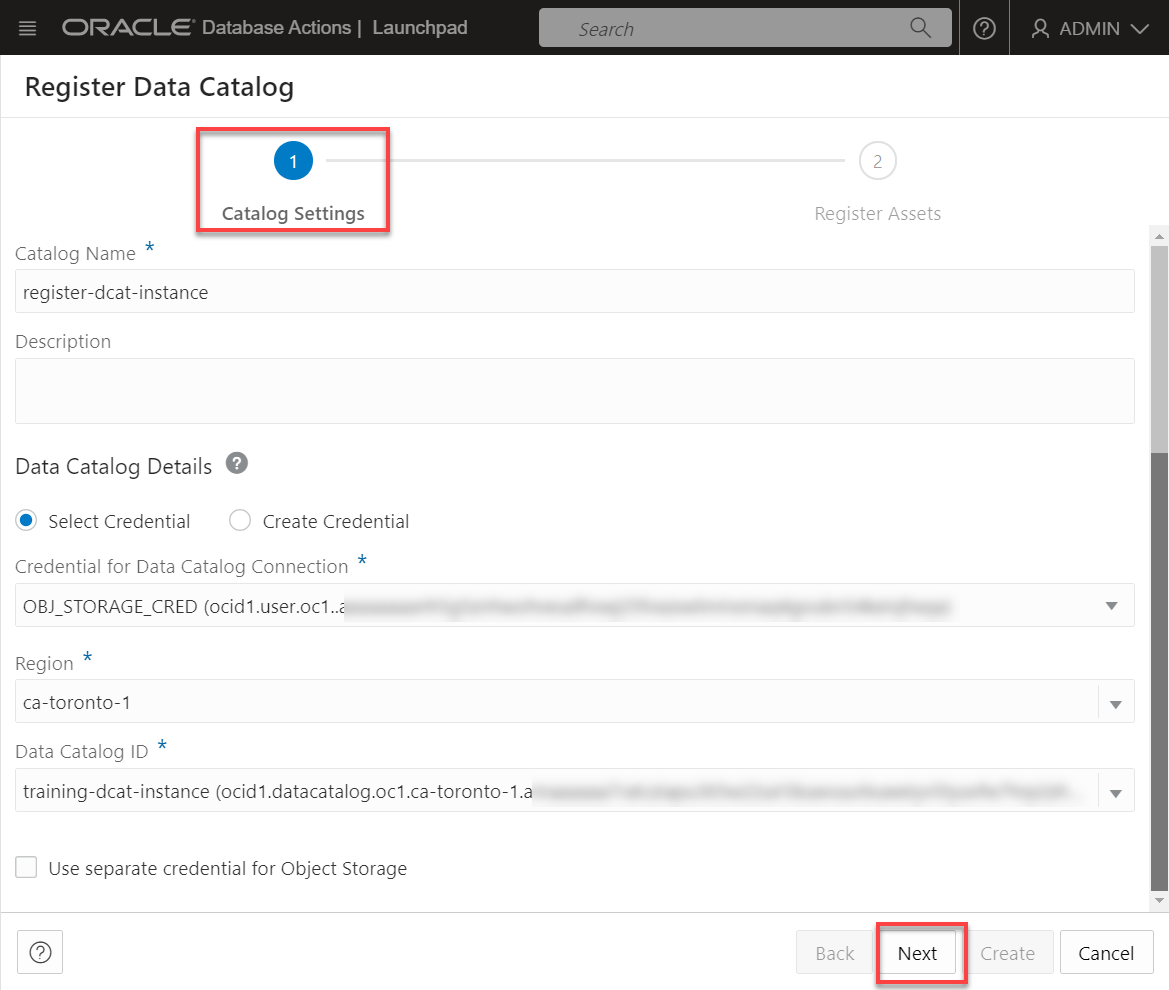
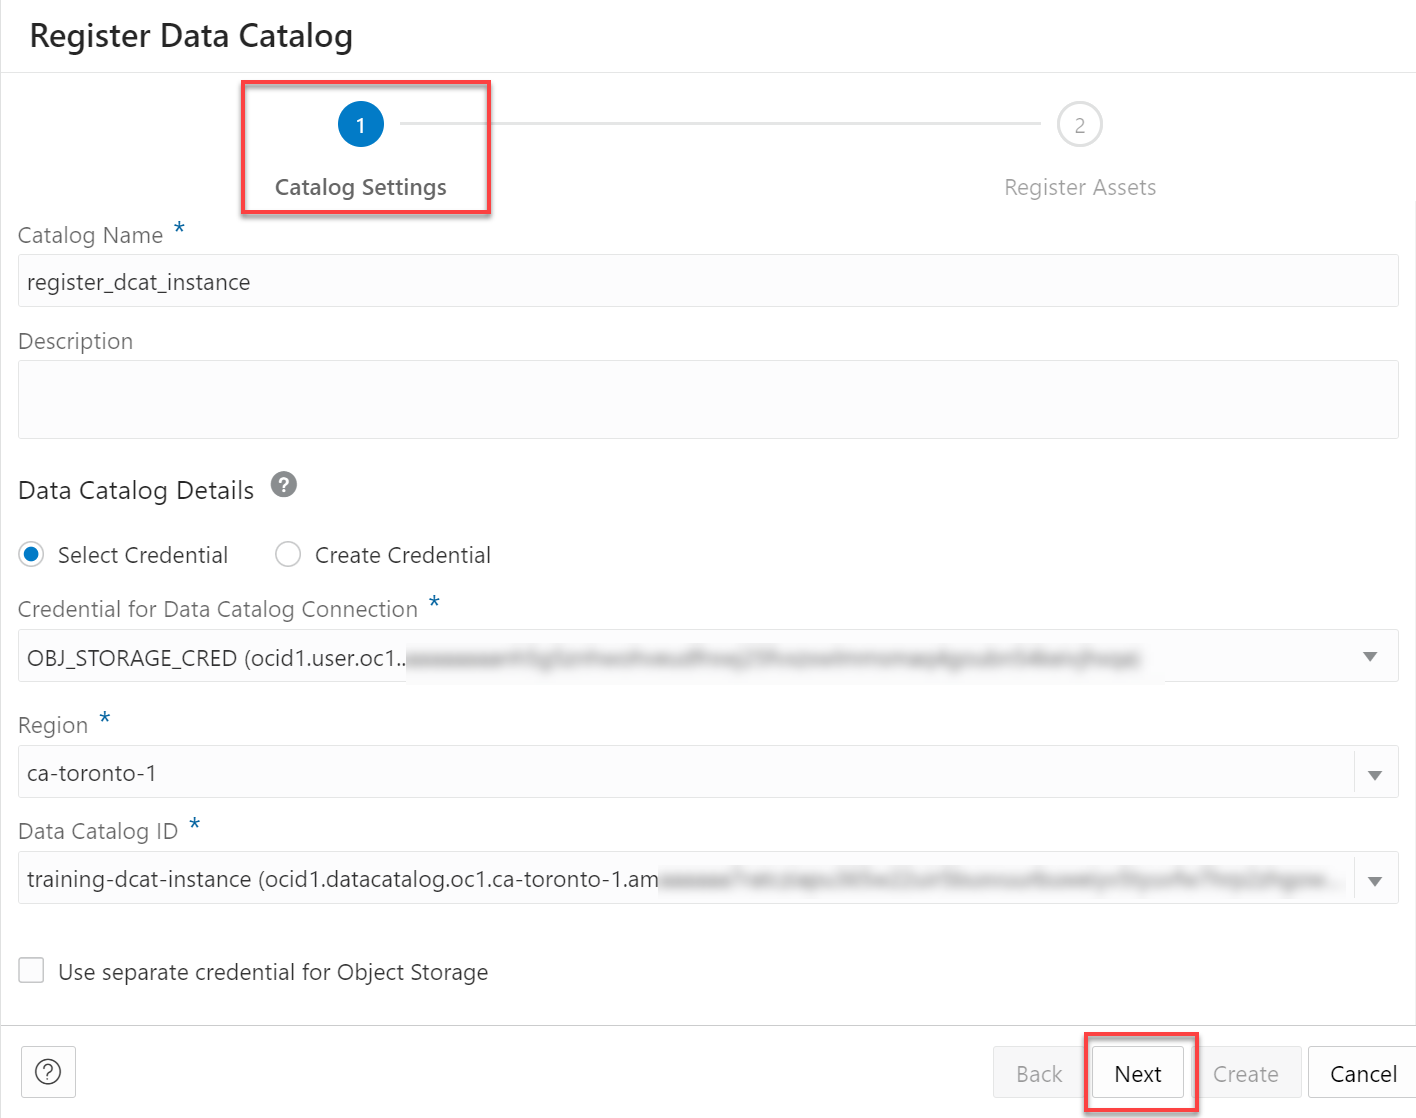
updates to new labs

diff --git a/shared/adw-data-lake/build-data-lake/adw-dcat-integrate/adw-dcat-integrate.md b/shared/adw-data-lake/build-data-lake/adw-dcat-integrate/adw-dcat-integrate.md
@@ -16,26 +16,62 @@ In this lab, you will:
 
 This lab requires the completion of the following labs/tasks from the **Contents** menu on the left:
 
-* **Lab 1**: Set up the Workshop Environment > Task 3: Create an Autonomous Data Warehouse Instance.
-* **Lab 1**: Set up the Workshop Environment > Task 4: (Optional) Create a Data Catalog Instance. If you don't have a Data Catalog instance installed, you can simply follow the instructions in this lab.
-* **Lab 4**: Link to Data in Public Object Storage Buckets > Task 2: Link to Data in Public Object Storage Buckets and Create Tables.
+* **Lab 1**: Set up the Workshop Environment > **Task 3**: Create an Autonomous Data Warehouse Instance and **Task 4**: (Optional) Create a Data Catalog Instance. If you don't have a Data Catalog instance installed, you can simply follow the instructions in this lab.
+* **Lab 4**: Link to Data in Public Object Storage Buckets > **Task 2**: Link to Data in Public Object Storage Buckets and Create Tables.
 
-## Task 1: Navigate to the Data Catalog Page
+## Task 1: Navigate to the OCI Data Catalog Page
+
+This is not a hands-on task. In this task, you will navigate to an OCI Data Catalog instance and explore a data asset named Data Lake. This data asset contains entities that were harvested from three Oracle Object Storage buckets. In the next task, you will connect to this Data Catalog instance from within ADW and link to some data assets to create external tables.
 
 1. Log in to the **Oracle Cloud Console**. On the **Sign In** page, select your tenancy, enter your username and password, and then click **Sign In**. The **Oracle Cloud Console** Home page is displayed.
 
+2. Open the **Navigation** menu and click **Analytics & AI**. Under **Data Lake**, click **Data Catalog**.
 
-## Task 2: Navigate to the Data Load Page
+3. On the **Data Catalog Overview** page, click **Go to Data Catalogs**.
 
-1. Log in to the **Oracle Cloud Console**, if you are not already logged as the Cloud Administrator. On the **Sign In** page, select your tenancy, enter your username and password, and then click **Sign In**. The **Oracle Cloud Console** Home page is displayed.
+    ![The Go to Data Catalogs button is highlighted.](./images/data-catalog-overview.png " ")
+
+4. On the **Data Catalogs** page, click the **`training-dcat-instance`** Data Catalog instance. In our example, this instance contains a data asset.
+
+    ![In the Name column, the training-dcat-instance link is highlighted.](./images/click-data-catalog.png " ")
+
+    **Note:** In our example, the Data Catalog instance is in a different compartment than where our ADW instance is located; therefore, make sure you are in the correct compartment when you access your Data Catalog and ADW instances; otherwise, you won't see the resources that you created in this workshop.
+
+5. On the Data Catalog instance **Home** tab, click **Data assets** link.
+
+    ![The Data Assets tab and Data Lake data asset are highlighted.](./images/data-assets-link.png " ")
+
+6. In the **Data assets** tab, click your desired data asset, **Data Lake** in our example.
+
+    ![The Data Assets tab and Data Lake data asset are highlighted.](./images/data-assets-tab.png " ")
+
+7. In the **Data assets** list, click the **Data Lake** data asset. The **Oracle Object Storage: Data Lake** page is displayed. Three buckets were harvested in this data asset.
+
+    ![The three buckets in the Data Lake asset are displayed.](./images/buckets-displayed.png " ")
+
+8. Click the **Sandbox** bucket link. The **Bucket: Sandbox** page is displayed. Let's view the data entities in this bucket. Click the **Data entities** tab. The bucket contains three data entities.
+
+    ![The data entities in the bucket are displayed.](./images/data-entities-sandbox.png " ")
+
+    In the this workshop, you will learn how to access those data entities from within ADW.
+
+## Task 2: Register your Data Catalog Instance in ADW
+
+In this task, you will learn how to register an OCI Data Catalog instance in ADW in order connect to that instance and link to the data asset's entities to create external tables in ADW.
+
+1. Log in to the **Oracle Cloud Console**, if you are not already logged as the Cloud Administrator.
 
 2. Open the **Navigation** menu and click **Oracle Database**. Under **Oracle Database**, click **Autonomous Database**.
 
-3. On the **Autonomous Databases** page, click your **ADW-Data-Lake** ADB instance.
+3. On the **Autonomous Databases** page, make sure that you are in the correct compartment, and then click your **ADW-Data-Lake** ADB instance.
+
+    **Note:** If your Data Catalog and ADW instances are in different compartments like in our example, you must select the correct compartment for your ADW instance; otherwise, you won't see the resources that you created in this workshop such as the credential and cloud store locations.
+
+    ![Verify compartment and then click the ADW instance.](./images/select-compartment.png " ")
 
 4. On the **Autonomous Database details** page, click **Database actions**.
 
-5. A **Launch DB actions** message box with the message **Please wait. Initializing DB Actions** is displayed. Next, the **Database Actions | Launchpad** Home page is displayed in a new tab in your browser. In the **Data Studio** section, click the **DATA LOAD** card.
+5. In the **Database Actions | Launchpad** Home page, in the **Data Studio** section, click the **DATA LOAD** card.
 
 6. In the **Administration** section, click **CLOUD LOCATIONS**, and then click **Next**.
 
@@ -45,61 +81,79 @@ This lab requires the completion of the following labs/tasks from the **Contents
 
     ![Click Register Data Catalog.](./images/click-register-data-catalog.png " ")
 
-8. In the **Register Data Catalog** panel, specify the following:
+8. In the **Register Data Catalog** panel, in **Step 1** of the wizard, **Catalog Settings**, specify the following:
 
-    * **Catalog Name:** Enter a meaningful name.
+    * **Catalog Name:** Enter a meaningful name. **Note:** The name must conform to the Oracle object naming conventions, which do not allow spaces or **hyphens**.
     * **Description:** Enter an optional description.
-    * **Select Credential:** Select this check box (default). Select your credential that you created in **Lab 5 > Task 6**.
-    * **Region:** Your region should be already selected.
+    * **Select Credential:** Select this check box (default). Select your credential that you created in **Lab 5 > Task 6**, **`OBJ_STORAGE_CRED`**.
+    * **Region:** Your region should be already selected after you chose your credential.
     * **Data Catalog ID:** If you have several Data Catalog instances, select the Data Catalog instance that you want to register from the drop-down list.
 
-    ![The completed Register Data Catalog panel is displayed.](./images/register-data-catalog-panel.png " ")
+        ![The completed Register Data Catalog panel is displayed.](./images/register-data-catalog-panel.png " ")
 
-## Task 2: Export a Table as a Parquet File to an Object Storage Bucket
+9. Click **Next**. **Step 2** of the wizard, **Register Assets** is displayed. By default, all the buckets in your selected Data Catalog instance are selected, along with data assets they contain. Drill-down (expand) the **moviestream_sandbox** bucket. This bucket contains three data assets. Those are the same data entities that you saw earlier in the Data Catalog instance in **Task 1**.
 
-1. Export the **`PIZZA_LOCATIONS`** table from your ADW instance to a **`Parquet`** file in a private (or public) Object Storage bucket of your choice. Provide the location of your OCI Object Storage bucket using the Native URI format as follows. _**Note:** You need to use your own **`region`** name, **`tenancy (namespace)`** name, **`bucket`** name, and the **`filename`** that will be created_.
+    ![Step 2 of the wizard is displayed.](./images/register-assets-wizard-2.png " ")
 
-    ```
-    https://objectstorage.region.oraclecloud.com/n/namespace-string/b/bucket/o/filename
-    ```
+10. Keep the **moviestream\_sandbox** bucket checked; however, uncheck the **moviestream\_landing** and **moviestream\_gold** buckets, and then click **Create** to register the Data Catalog instance.
 
-2. Copy and paste the following code into your SQL Worksheet. The **`credential_name`** is the name of the credential to access your Cloud Object Storage bucket where the file will be exported. You created this credential in **Lab 5 > Task 6**. Replace the **`file_uri_list`** value with your own value. The **`format`** parameter values indicates that the results of the query you specify in the **`query`** parameter will be exported as a `Parquet` file to your bucket. Don't provide the **`.parquet`** extension for the file in the **URI**. It will be automatically appended to the file name when it gets created. Next, click the **Run Script** icon in the Worksheet toolbar.
+    ![Click Create to register the Data Catalog instance.](./images/click-create.png " ")
 
-    ```
-    <copy>
-    BEGIN
-    DBMS_CLOUD.EXPORT_DATA(
-        credential_name => 'OBJ_STORAGE_CRED',
-        file_uri_list => 'https://objectstorage.ca-toronto-1.oraclecloud.com/n/use-your-namespace/b/training-data-lake/o/pizza_locations',
-        format => json_object('type' value 'parquet'),
-        query => 'select * from PIZZA_LOCATION'
-    );
-    END;
-    /
-    </copy>
-    ```
+    The **Manage Cloud Store** page is re-displayed. The newly registered Data Catalog instance is displayed.
 
-    It can take up to a minute or so for the PL/SQL procedure to complete successfully.
+    ![Click Create to register the Data Catalog instance.](./images/data-catalog-registered.png " ")
 
-    ![List the files in the sales_sample folder.](./images/export-table.png " ")
+## Task 3: Link to Data Assets in the Registered Data Catalog and Create External Tables
 
-    > **Note:**
+In this task, you will link to data assets from the registered Data Catalog and create the following external tables in your Autonomous Database instance: **customer\_contact**, **genre**, **pizza\_locations**, and **sales\_sample**.
 
-    * If your target Object Storage bucket is **private** like in our example, then you must use **`credential_name => OBJ_STORAGE_CRED`** argument. If you use a **public** Object Storage bucket, the argument is optional.
+1. Click **Oracle Database Actions** in the banner to display the Launchpad landing page.
 
-## Task 3: View the Exported Parquet File in the Object Storage Bucket
+    ![Click Oracle Database Actions.](images/click-database-actions.png)
 
-**`DBMS_CLOUD.EXPORT_DATA`** performs the query specified with the `query` parameter and sends the results to text files on Object Store. The output format depends on the `format` parameter type you specify CSV, JSON, Parquet, or XML. In our example, we used Parquet. For detailed information about the generated file format and name, see  [File Naming for Text Output (CSV, JSON, Parquet, or XML)](https://docs.oracle.com/en/cloud/paas/autonomous-database/adbsa/export-data-file-namingl.html#GUID-1A52F59C-2797-48A5-A058-950318DBE9AF).
+2. In the **Data Studio**, click **DATA LOAD**.
 
-1. Open the **Navigation** menu in the Oracle Cloud console and click **Storage**. Under **Object Storage & Archive Storage**, click **Buckets**.
+3. In the **What do you want to do with your data?** section, click **LINK DATA**.
 
-2. On the **Buckets** page, select the compartment that contains your bucket from the **Compartment** drop-down list in the **List Scope** section. Make sure you are in the region that contains your bucket.
+4. In the **Where is your data?** section, select **CLOUD STORE**, and then click **Next**.
 
-    ![The buckets page is displayed.](./images/buckets-page.png " ")
+    ![Select Link Data and Cloud Store.](images/select-link-data-from-cloud-store.png)
 
-3. Click your bucket's name link in the **Name** column. The **Bucket Details** page is displayed. Scroll-down the page to the **Objects** section. The exported **Parquet** file is displayed.
+5. The **Link Cloud Object** page is displayed. Use this page to drag and drop tables from the registered Data Catalog instance to the data linking job area.
 
-    ![The buckets page is displayed.](./images/exported-file.png " ")
+    ![Drag the data assets from the Data Catalog bucket onto the linking job section.](images/drag-and-drop-assets.png)
+
+6. Drag the **customer\_promotions** and **moviestream\_churn** data assets from the **moviestream\_sandbox** bucket in our Data Catalog instance, and drop them onto the data linking job section.
+
+     ![Click the pencil icon to open settings viewer for customer_contact load task](images/customer-promotions-settings.png)
+
+7. Let's change the default name for the **customer\_promotions** external table that will be created. Click the **Actions** icon (3-dot vertical ellipsis) for the **customer\_promotions** link task, and then select **Settings** from the context menu. The **Link Data from Cloud Store Location customer\_promotions** settings panel is displayed. Change the external table name to **CUSTOMER\_PROMOTIONS\_DCAT**, and then click **Close**.
+
+    ![Change name of the external table.](images/customer-promotions-dcat.png)
+
+8. Let's change the default name for the **moviestream\_churn** external table that will be created. Click the **Actions** icon (3-dot vertical ellipsis) for the **moviestream\_churn** link task, and then select **Settings** from the context menu to view the settings for this task. The **Link Data from Cloud Store Location moviestream\_churn** settings panel is displayed. Change the name of the external table name to **MOVIESTREAM\_CHURN\_DCAT**, and then click **Close**.
+
+9. Click **Start** to run the data link job. In the **Run Data Load Job** dialog box, click **Run**.
+
+    ![Run the data link job](images/run-data-link.png)
+
+10. After the load job is completed, make sure that all of the data link cards have green check marks next to them. This indicates that your data link tasks have completed successfully.
+
+    ![The Link job tasks completed.](images/link-completed.png)
+
+11. Click **Oracle Database Actions** in the banner to display the Launchpad landing page. In the **Development** section, click **SQL** to display your SQL Worksheet.
+
+12. From the **Navigator** pane, drag and drop the newly created **CUSTOMERS_PROMOTIONS_DCAT** external table onto the Worksheet. In the **Choose Type of insertion**, click **Select**, and then click **Apply**.
+
+    ![Drag and drop the external table onto the worksheet.](images/drag-drop-external-table.png)
+
+13. The auto generated query is displayed in the worksheet. Click the **Run Statement** icon to run the query. The results are displayed. You just accessed the data in the registered Data Catalog instance!
+
+    ![Run the query.](images/run-query.png)
+
+    You can also query the **MOVIESTREAM\_CHURN\_DCAT** external table.
+
+ You may now proceed to the next lab.
 
 ## Learn more
 

diff --git a/shared/adw-data-lake/build-data-lake/load-os-data-public/load-os-data-public.md b/shared/adw-data-lake/build-data-lake/load-os-data-public/load-os-data-public.md
@@ -49,7 +49,7 @@ This lab requires completion of **Lab 1: Set up the Workshop Environment > Task 
 
     ![The Database Actions Launchpad Home page is displayed. The Data Load card in the Data Studio section is highlighted.](./images/click-data-load.png " ")
 
-## Task 2: Link to Data in Public Object Storage Buckets and Create Tables
+## Task 2: Link to Data in Public Object Storage Buckets and Create External Tables
 
 In this task, you will link to data and create the following external tables in your Autonomous Database instance: **customer\_contact**, **genre**, **pizza\_locations**, and **sales\_sample**.
 
